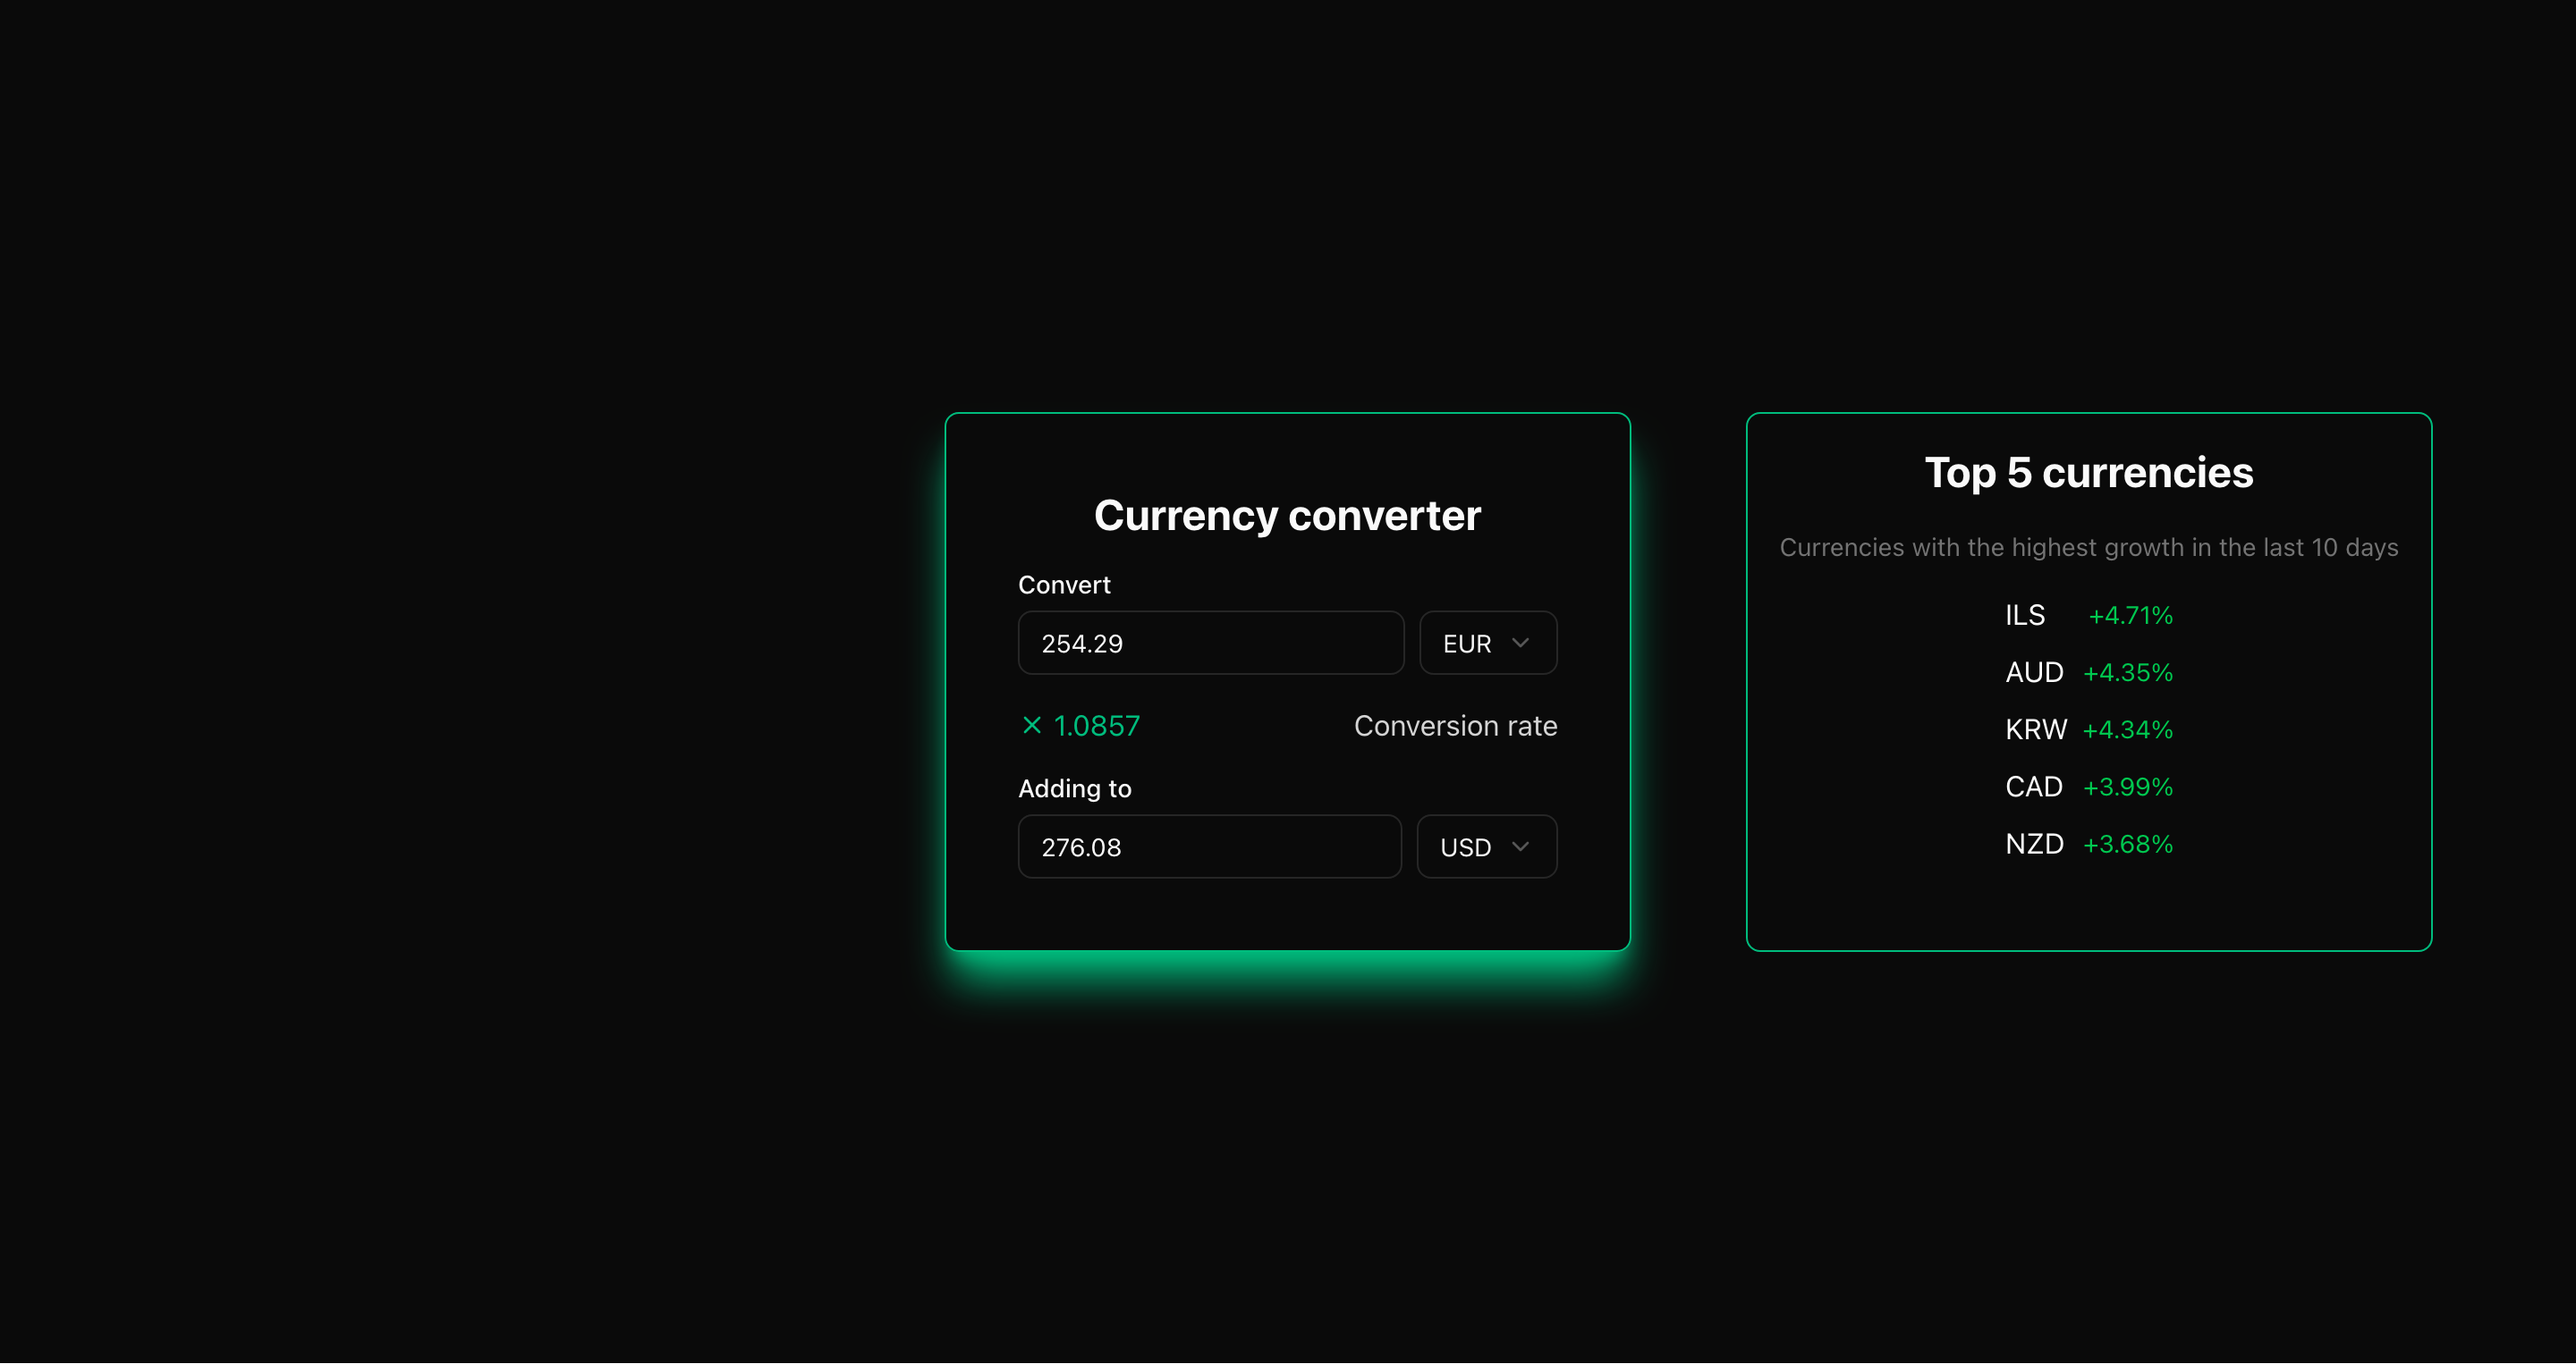
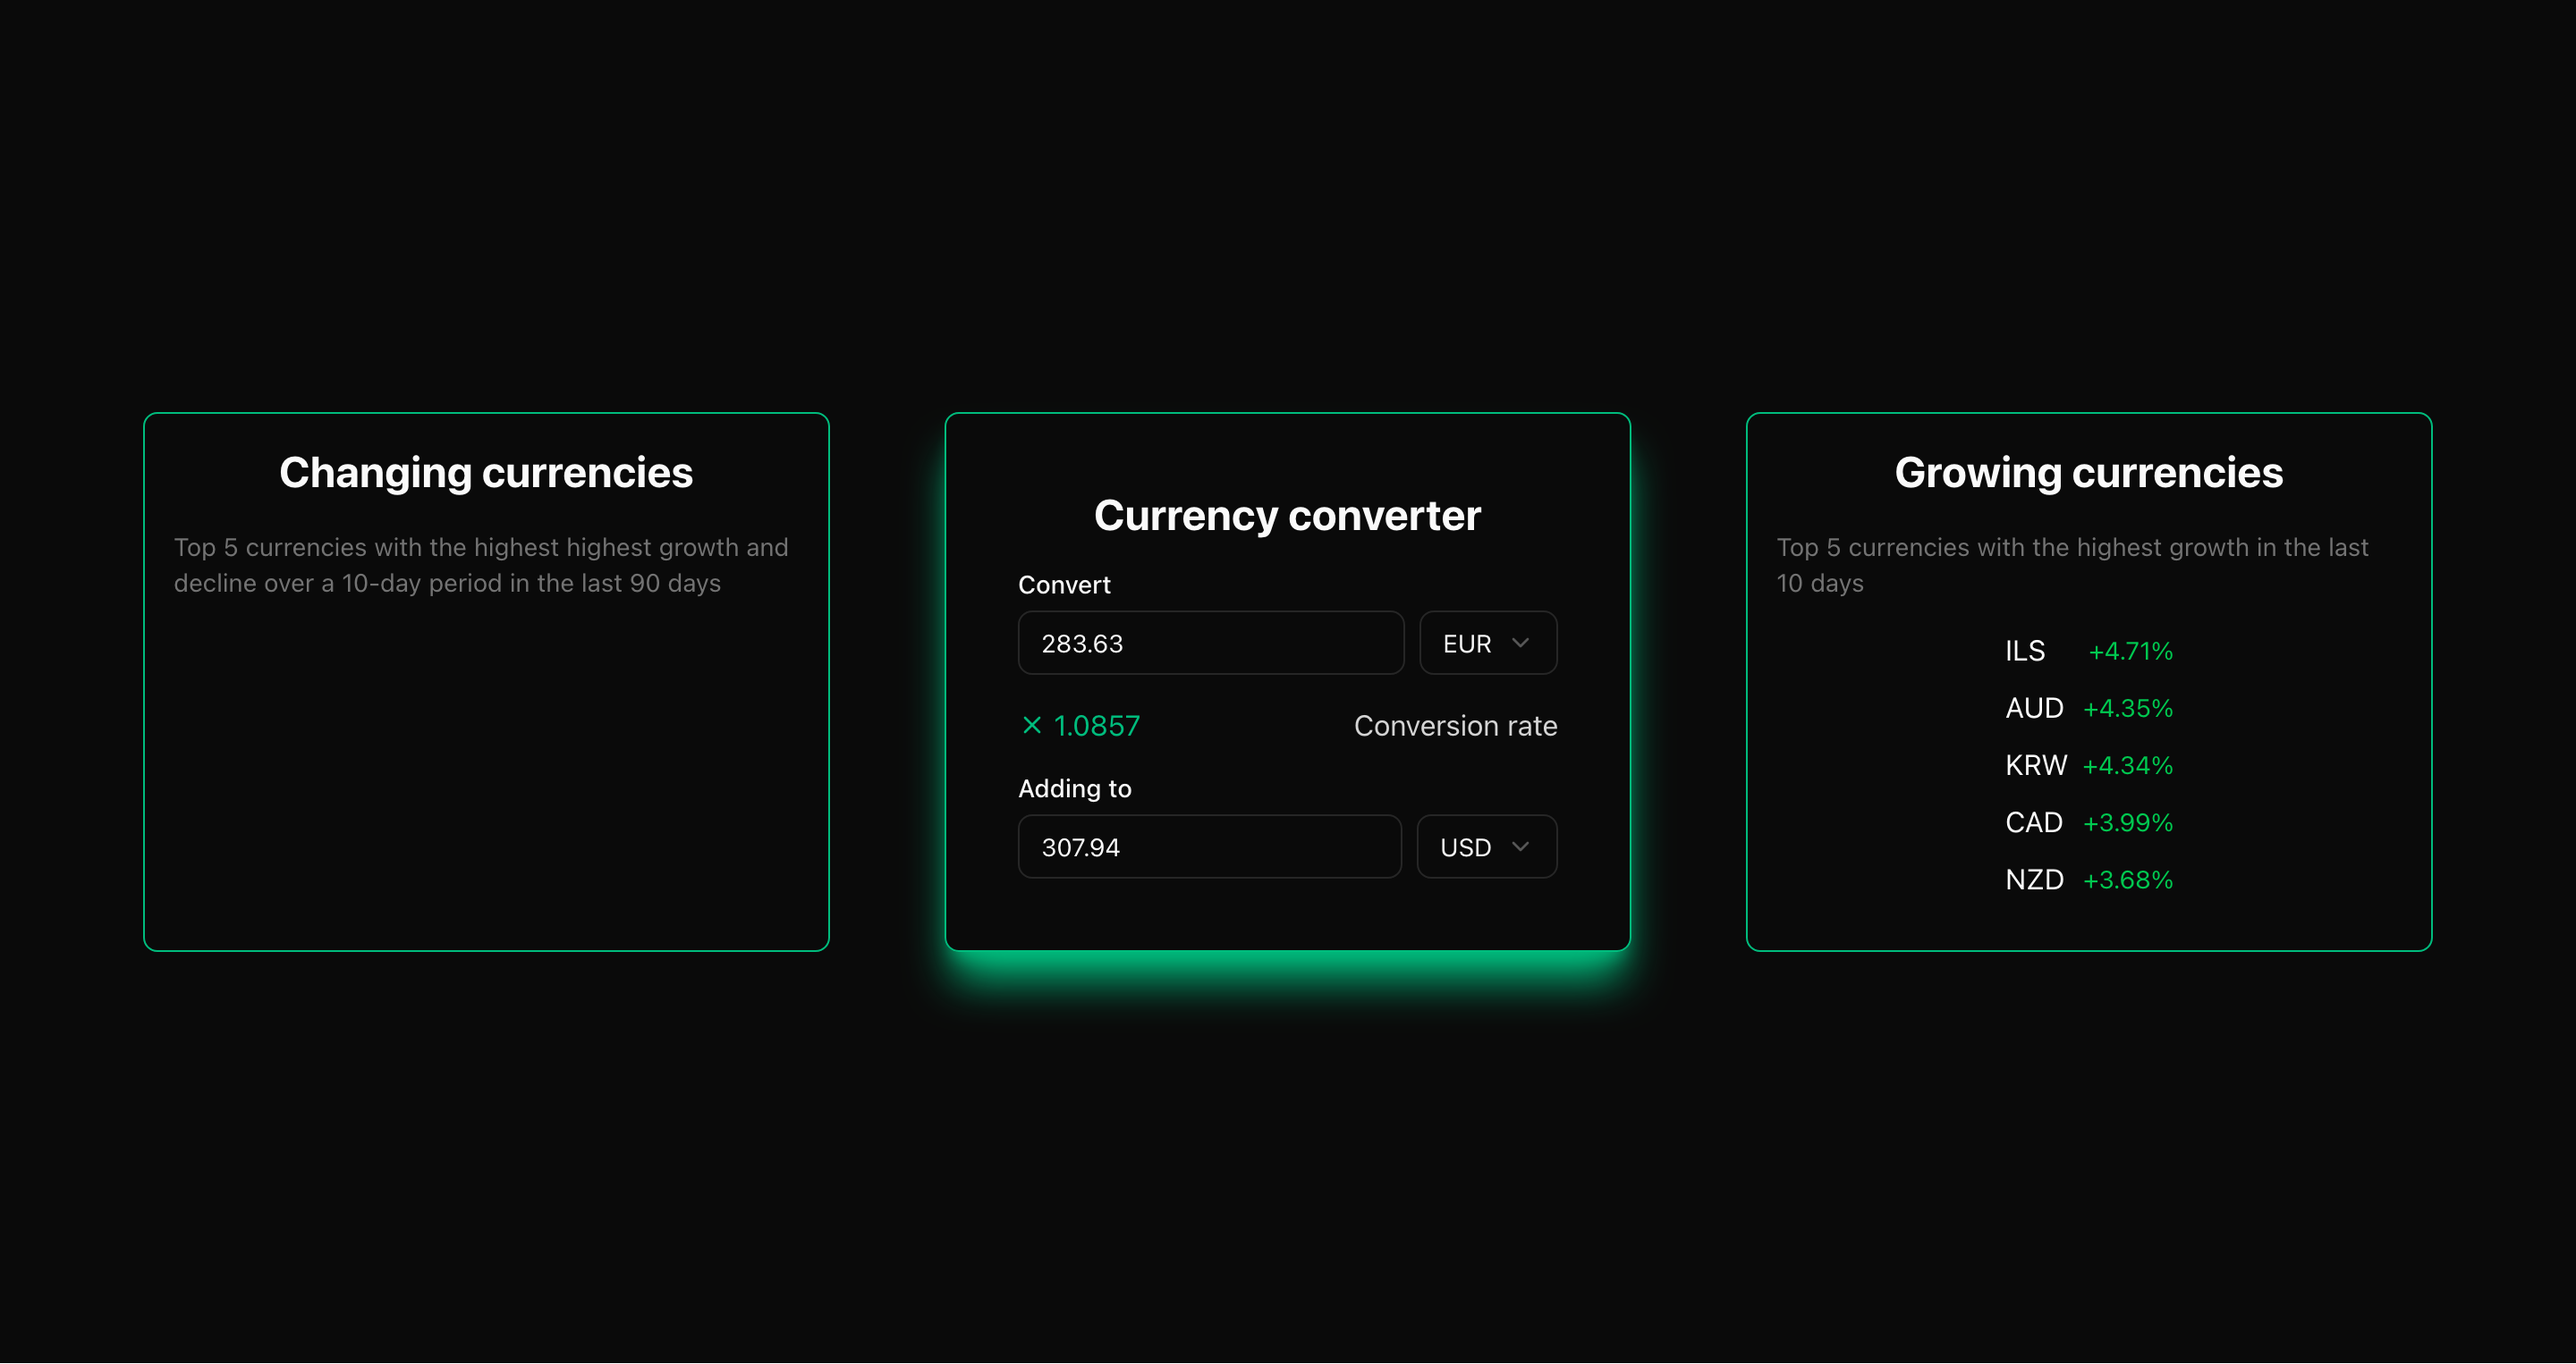
add placeholder for highest change currency component

diff --git a/frontend/src/components/converter.tsx b/frontend/src/components/converter.tsx
@@ -14,13 +14,14 @@ import { useQuery } from "@tanstack/react-query";
 import { XIcon } from "lucide-react";
 import { useState } from "react";
 import { Label } from "./ui/label";
+import { cn } from "@/lib/utils";
 
 type ConverterProps = {
   currencies: Currency[];
-};
+} & React.HTMLAttributes<HTMLDivElement>;
 
 const Converter = (props: ConverterProps) => {
-  const { currencies } = props;
+  const { currencies, className, ...rest } = props;
   const [from, setFrom] = useState<Currency>("EUR");
   const [to, setTo] = useState<Currency>("USD");
   const [amountStr, setAmountStr] = useState<string>("");
@@ -32,7 +33,13 @@ const Converter = (props: ConverterProps) => {
   });
 
   return (
-    <div className="flex w-full max-w-xl flex-col items-center space-y-4 rounded-md border border-emerald-500 p-10 shadow-xl shadow-emerald-500">
+    <div
+      className={cn(
+        "flex w-full max-w-xl flex-col items-center space-y-4 rounded-md border border-emerald-500 p-10 shadow-xl shadow-emerald-500",
+        className,
+      )}
+      {...rest}
+    >
       <h1 className="text-2xl font-bold">Currency converter</h1>
       <div className="flex flex-col space-y-2">
         <Label htmlFor="amount">Convert</Label>

diff --git a/frontend/src/components/growth.tsx b/frontend/src/components/growth.tsx
@@ -3,17 +3,23 @@ import { cn } from "@/lib/utils";
 
 type GrowthProps = {
   currencyGrowths: CurrencyGrowth[];
-};
+  title: string;
+  description: string;
+} & React.HTMLAttributes<HTMLDivElement>;
 
 const Growth = (props: GrowthProps) => {
-  const { currencyGrowths } = props;
+  const { currencyGrowths, title, description, className, ...rest } = props;
 
   return (
-    <div className="flex w-full max-w-xl flex-col items-center rounded-md border border-emerald-500 p-4">
-      <h1 className="mb-4 text-2xl font-bold">Top 5 currencies</h1>
-      <p className="mb-4 text-sm text-neutral-500">
-        Currencies with the highest growth in the last 10 days
-      </p>
+    <div
+      className={cn(
+        "flex w-full max-w-xl flex-col items-center rounded-md border border-emerald-500 p-4",
+        className,
+      )}
+      {...rest}
+    >
+      <h1 className="mb-4 text-2xl font-bold">{title}</h1>
+      <p className="mb-4 text-sm text-neutral-500">{description}</p>
       <ul className="flex w-fit flex-col space-y-2">
         {currencyGrowths.map((growth) => (
           <li

diff --git a/frontend/src/app/page.tsx b/frontend/src/app/page.tsx
@@ -9,9 +9,19 @@ export default async function Home() {
   return (
     <main className="grid min-h-screen w-full place-items-center p-4 xl:p-20">
       <div className="grid grid-cols-1 gap-16 xl:grid-cols-3">
-        <div className="hidden sm:block" />
-        <Converter currencies={currencies} />
-        <Growth currencyGrowths={currencyGrowths} />
+        <Growth
+          currencyGrowths={[]}
+          title="Changing currencies"
+          description="Top 5 currencies with the highest highest growth and decline over a 10-day period in the last 90 days"
+          className="order-3 xl:order-1"
+        />
+        <Converter currencies={currencies} className="order-1 xl:order-2" />
+        <Growth
+          currencyGrowths={currencyGrowths}
+          title="Growing currencies"
+          description="Top 5 currencies with the highest growth in the last 10 days"
+          className="order-2 xl:order-3"
+        />
       </div>
     </main>
   );
